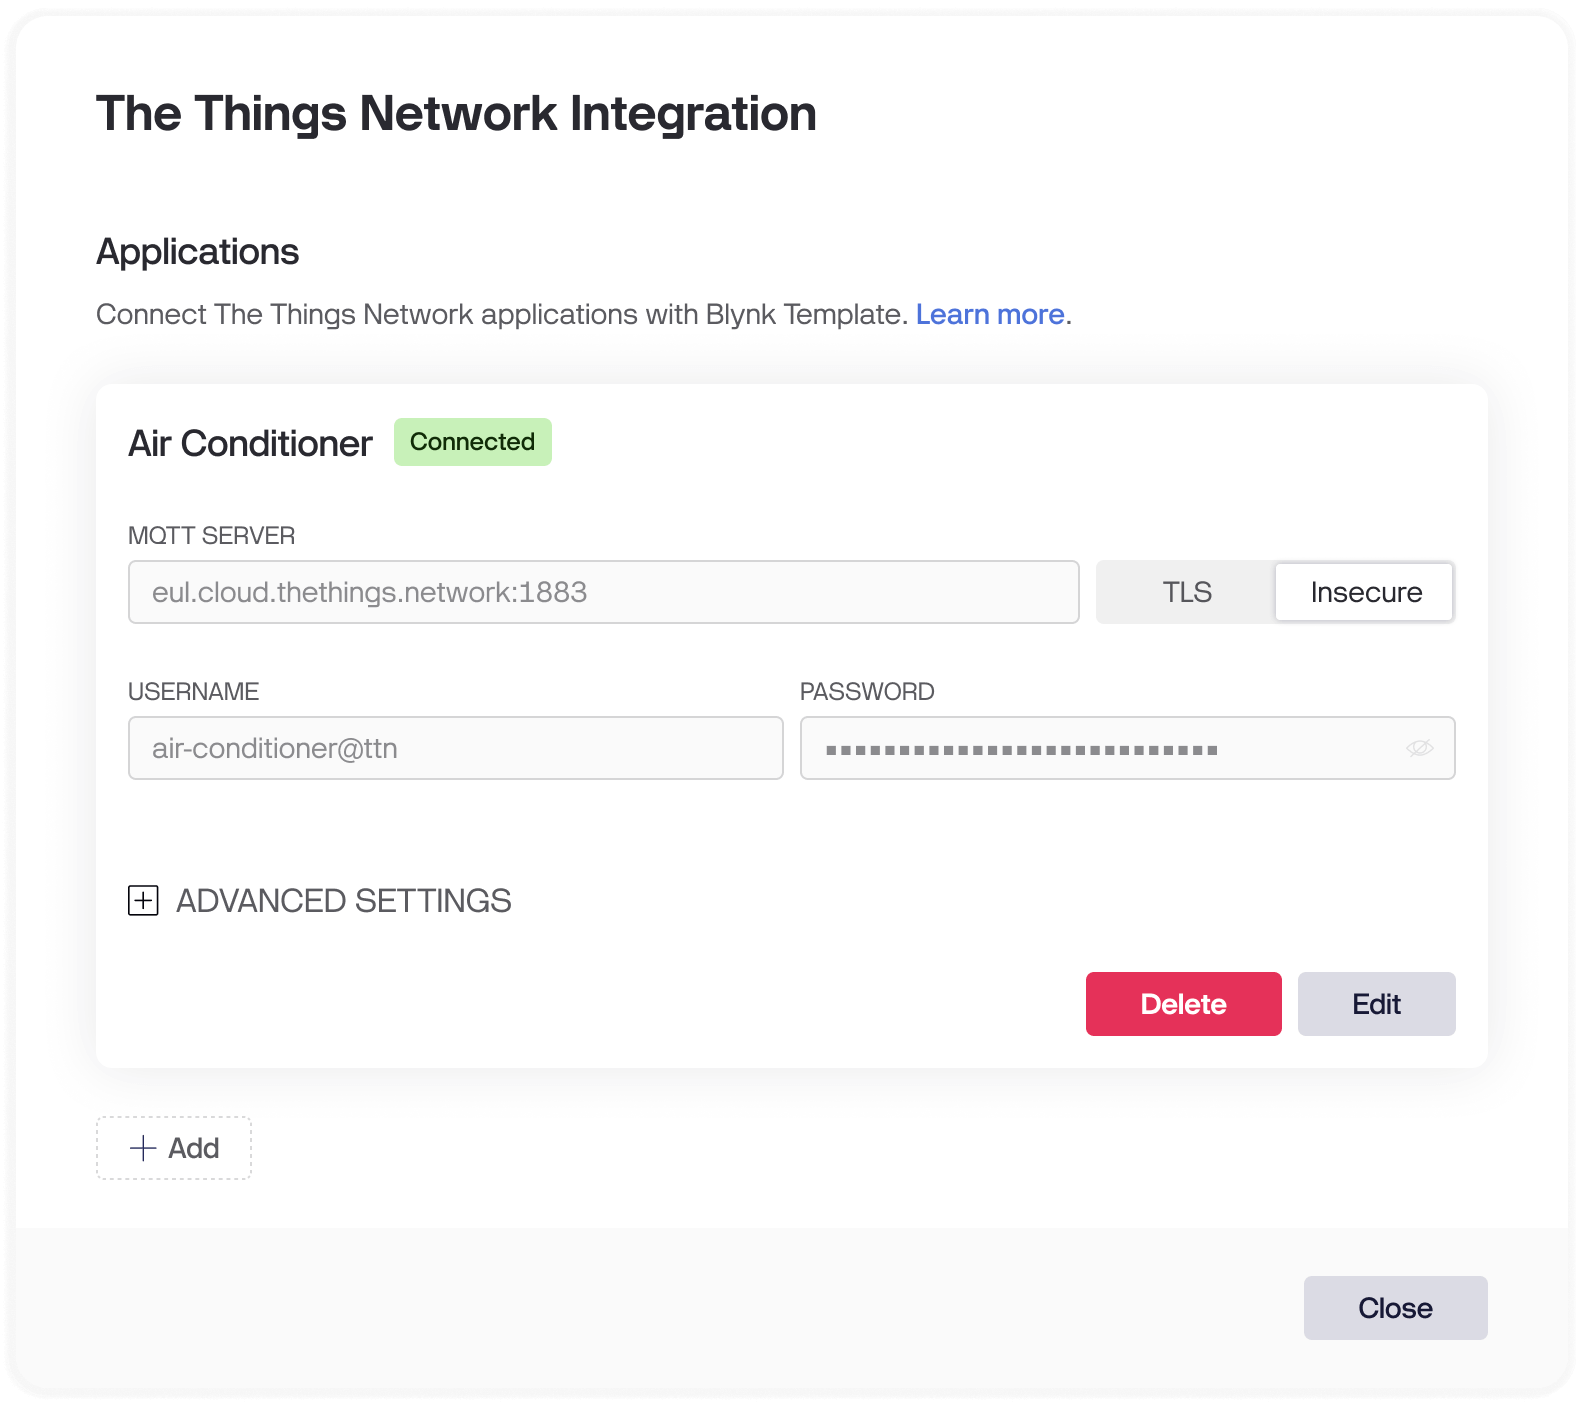
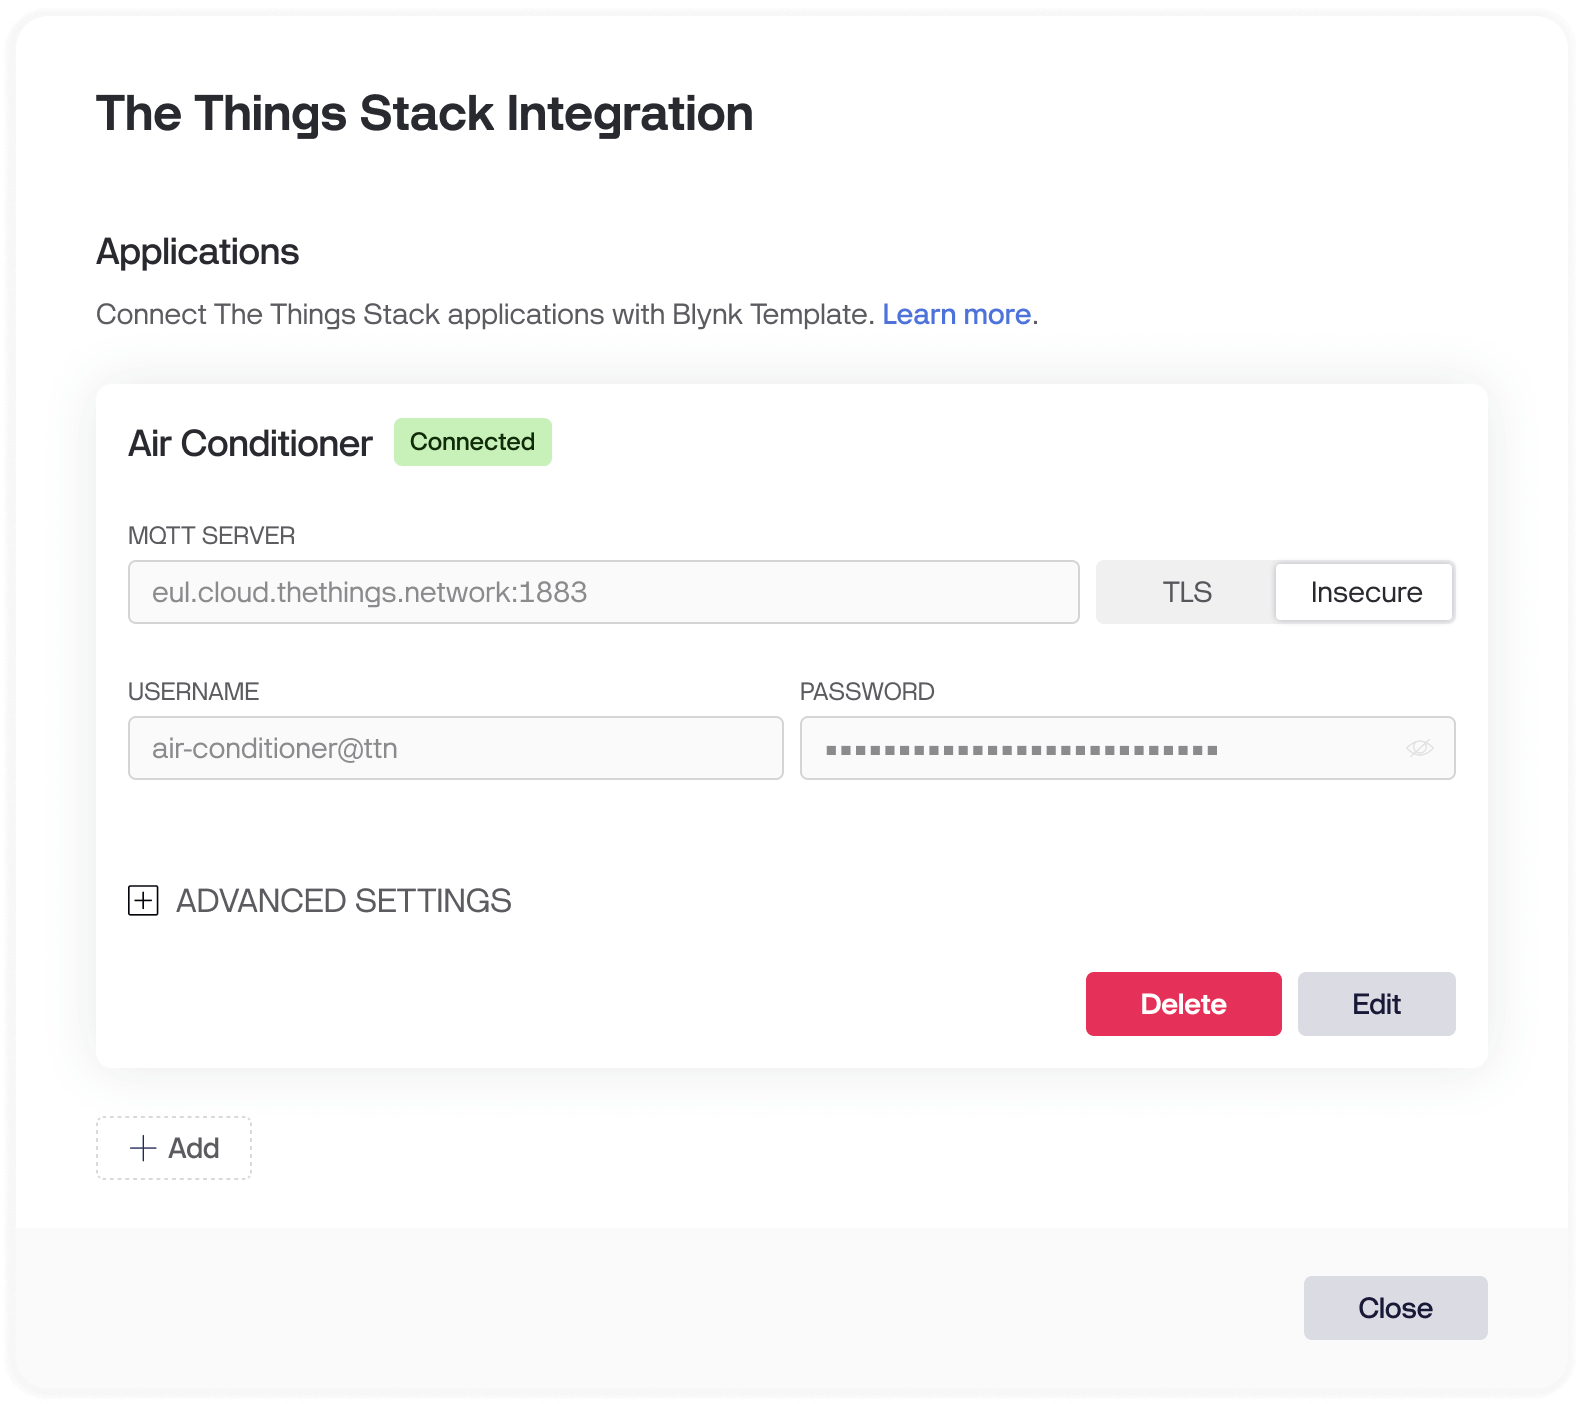
doc: Improve documentation

Changed region(s): [[0.2165, 0.2144, 0.6806, 0.245], [0.2165, 0.0613, 0.5259, 0.0919]]

diff --git a/doc/content/integrations/cloud-integrations/blynk/getting-started.md b/doc/content/integrations/cloud-integrations/blynk/getting-started.md
@@ -20,7 +20,7 @@ Click **Done** to complete the setup.
 {{< figure src="../create-tempalte.png" alt="Create the Template on Blynk" >}}
 
 Now that you have a template, proceed with connecting it to The Things Stack application.
-In the **Blynk Console**, go to **Developer Zone -> Integrations -> The Things Network**.
+In the **Blynk Console**, go to **Developer Zone -> Integrations -> The Things Stack**.
 Click the **+ Add** button and select the template you created earlier.
 
 {{< figure src="../create-integration.png" alt="Create the Integration on Blynk" >}}
@@ -43,15 +43,19 @@ Once your first device is connected to Blynk, it's time to transfer some data! S
 
 ### Uplink
 For uplinks, Blynk requires the data to be in key-value pair format, where the key is either the datastream name or pin (such as v1 or a10) and the value is the datastream value.
-The value type must match the datastream value type! Here is an example of the decoded uplink:
+The value type must match the datastream value type! Also, prefer using only Virtual Pin, Enum and Location datastream types. Here is an example of the decoded uplink:
 
 ```json
 {
   "temperature": 24.1,
-  "humidity": 54
+  "humidity": 54,
+  "location": [-73.935242, 40.730610]
 }
 ```
-In this example, Blynk will set the datastream with the name *temperature* to the value *24.1* and the datastream with the name *humidity* to the value *54*.
+In this example, Blynk will set the datastream with the name *temperature* to the value *24.1* and the datastream with the name *humidity* to the value *54* and datastream with name *location* to the longitude *-73.935242* and latitude *40.730610* (longitude goes first).
+
+{{< note "Since Blynk does not support a boolean datastream value type, you must use either the Integer or Double datastream value type. The value `true` will be represented as `1`, and `false` as `0`." />}}
+
 To create or edit datastreams, go to **Blynk Console -> Developer Zone -> My Templates -> select your template -> Datastreams**.
 Click the **Edit** button in the top right corner to make changes.
 The datastreams configuration for this example may look like this:
@@ -82,3 +86,7 @@ You can do this either from the device dashboard on the Blynk Console or through
 For guidance on configuring widgets for the Device Dashboard and Mobile App, refer to the Blynk documentation:
 - [Web Dashboard](https://docs.blynk.io/en/blynk.console/templates/dashboard)
 - [Mobile Dashboard](https://docs.blynk.io/en/blynk.apps/constructor)
+
+Additionally, take advantage of other powerful Blynk features, such as [Automations](https://docs.blynk.io/en/concepts/automations), [WebHooks](https://docs.blynk.io/en/blynk.console/settings/developers/webhooks), and the [Device HTTPS API](https://docs.blynk.io/en/blynk.cloud/device-https-api), to build more advanced workflows.
+
+Also, check the [System DataStreams](https://docs.blynk.io/en/hardware-guides/the-things-stack/system-datastreams) section to grab more info from your device.

diff --git a/doc/content/integrations/cloud-integrations/blynk/automated-device-onboarding.md b/doc/content/integrations/cloud-integrations/blynk/automated-device-onboarding.md
@@ -11,7 +11,7 @@ However, this requires you to configure first the Automated Device Onboarding se
 
 ## Enabling Automated Device Onboarding
 To enable the Automated Device Onboarding feature:
-- Open the **Blynk Console** and navigate to **Developer Tools -> Integrations -> The Things Network**.
+- Open the **Blynk Console** and navigate to **Developer Tools -> Integrations -> The Things Stack**.
 - Select the application you wish to configure and access the advanced settings.
 - Turn on the **Enable Automated Device Onboarding** switch.
 - Specify the LoRaWAN version, Frequency plan, and Regional Parameter Version. If needed, check the Support class B and/or Support class C boxes.
@@ -45,7 +45,7 @@ Next, to provision the device on The Things Stack, open **Info & Metadata** and 
 Once these three metadata fields are specified, Blynk will automatically create the device in The Things Stack application.
 
 ## Onboard using Static Tokens
-The preferred method for device provisioning is using [Blynk Static Tokens](https://docs.blynk.io/en/hardware-guides/the-things-network/automated-device-onboarding#onboard-using-static-tokens).
+The preferred method for device provisioning is using [Blynk Static Tokens](https://docs.blynk.io/en/hardware-guides/the-things-stack/automated-device-onboarding#onboard-using-static-tokens).
 Here’s how to do it:
 
 1. Create a CSV file listing the Device EUI, App EUI, and Application Key for each device.
@@ -90,3 +90,14 @@ LW:D0:70B3D57ED0000010:0018B20000000101:000AF8BE
 Generate the QR code by inputting this content into any QR code generator tool, such as [QR Code Generator](https://www.urldecoder.org/).
 Then this QR code can be scanned by the end customer in the Blynk Mobile application or on the Blynk Console.
 Once the device is created, it will be automatically added in The Things Stack application.
+
+## Re-provisioning
+If you've changed your hardware or updated any LoRaWAN connection parameters (such as DevEUI, AppEUI/JoinEUI, or Application Key), you will need to create a new device in The Things Stack.
+
+To retain the historical data, settings, or any other details for the old device in Blynk, follow these steps:
+
+1. Navigate to the **Device Information & Metadata** tab for the old device in Blynk.
+2. Update the **TheThingsStack Device ID** metafield.
+3. Optionally, you can also update other related metafields like **DevEUI**, **JoinEUI**, and **Application Key**.
+
+{{< warning "If the new device goes online in The Things Stack before updating the metafields in Blynk, it may be automatically imported into Blynk. In case of a **TheThingsStack Device ID** collision (where two devices have the same ID), Blynk will randomly select one device. To resolve this, simply delete the automatically imported device to ensure the correct one is used." />}}

diff --git a/doc/content/integrations/cloud-integrations/blynk/device_grouping.md b/doc/content/integrations/cloud-integrations/blynk/device_grouping.md
@@ -1,0 +1,28 @@
+---
+title: "Device Grouping"
+description: "Group your devices correctly to ensure seamless integration and effective device management."
+weight: 3
+---
+
+To ensure seamless integration and effective device management, follow these principles:
+
+## Use Separate Applications and Templates for Different Device Types
+* **Why:** Each device type typically has unique data structures and behaviors. Using separate templates ensures that Blynk can correctly process and display device-specific telemetry data.
+* **How:** Create a dedicated application in The Things Stack for each Blynk template. This alignment allows you to configure a payload formatter at the application level, ensuring consistent data formatting across devices within the same group.
+
+## Group Devices of the Same Type in the Same Application and Template
+* **Why:** Grouping devices of the same type within a single application simplifies management and avoids issues caused by mixing different device types.
+* **How:** Use a common payload formatter for all devices within an application. This reduces the risk of errors and ensures consistent behavior across similar devices.
+
+## Benefits of This Approach
+**Consistency in Data Processing** \
+Configuring a shared payload formatter at the application level ensures uniformity, preventing potential bugs caused by incompatible data formats.
+
+**Simplified Maintenance** \
+Managing devices of the same type in a single application and template makes it easier to update configurations, troubleshoot issues, and scale the solution.
+
+**Accurate Template Association** \
+By separating applications for different templates, Blynk can correctly associate devices with their respective templates during the import process.
+
+{{< warning "If multiple Blynk templates are connected to a single The Things Stack application, Device Provisioning from The Things Stack will be disabled for all associated templates. This limitation can lead to challenges in managing device lifecycles and should be avoided." />}}
+{{< figure src="../incorrect-device-grouping.png" alt="Incorrect Device Grouping warning" >}}

diff --git a/doc/content/integrations/cloud-integrations/blynk/_index.md b/doc/content/integrations/cloud-integrations/blynk/_index.md
@@ -2,14 +2,14 @@
 title: "Blynk"
 description: "The integration guide with the Blynk IoT Platform"
 weight: 
-distributions: ["Cloud", "Dedicated Cloud", "Enterprise", "Sandbox"]
+distributions: ["Cloud", "Enterprise", "Sandbox"]
 ---
 
 **[Blynk](https://blynk.io/)** is a powerful IoT platform that enables businesses to easily connect, monitor, and control devices. It includes secure cloud infrastructure and customizable mobile and web applications, all without the need for coding.
 
 ## Key Benefits of Blynk Integration
 - **Bidirectional Device Communication**: Leverage widgets on the [Console Dashboard](https://docs.blynk.io/en/blynk.console/devices/device-profile/dashboard) or [Mobile App](https://blynk.io/no-code-iot-mobile-apps) to both visualize data from devices and send commands to them seamlessly.
-- **Enhanced Device Onboarding**: Streamline the onboarding process using LoRaWAN Device Identification QR Codes or [Blynk Static Tokens](https://docs.blynk.io/en/hardware-guides/the-things-network/automated-device-onboarding#onboard-using-static-tokens) for automatic device registration in both Blynk and The Things Stack applications, via the Blynk App or Console.
+- **Enhanced Device Onboarding**: Streamline the onboarding process using LoRaWAN Device Identification QR Codes or [Blynk Static Tokens](https://docs.blynk.io/en/hardware-guides/the-things-stack/automated-device-onboarding#onboard-using-static-tokens) for automatic device registration in both Blynk and The Things Stack applications, via the Blynk App or Console.
 - [**Device Lifecycle Management**](https://docs.blynk.io/en/blynk.console/templates/connection-lifecycle): Monitor device status and configurations with real-time in-app notifications and email alerts for efficient lifecycle management.
 
-**[The Things Stack integration documentation on Blynk](https://docs.blynk.io/en/hardware-guides/the-things-network)**
+**[The Things Stack integration documentation on Blynk](https://docs.blynk.io/en/hardware-guides/the-things-stack)**
